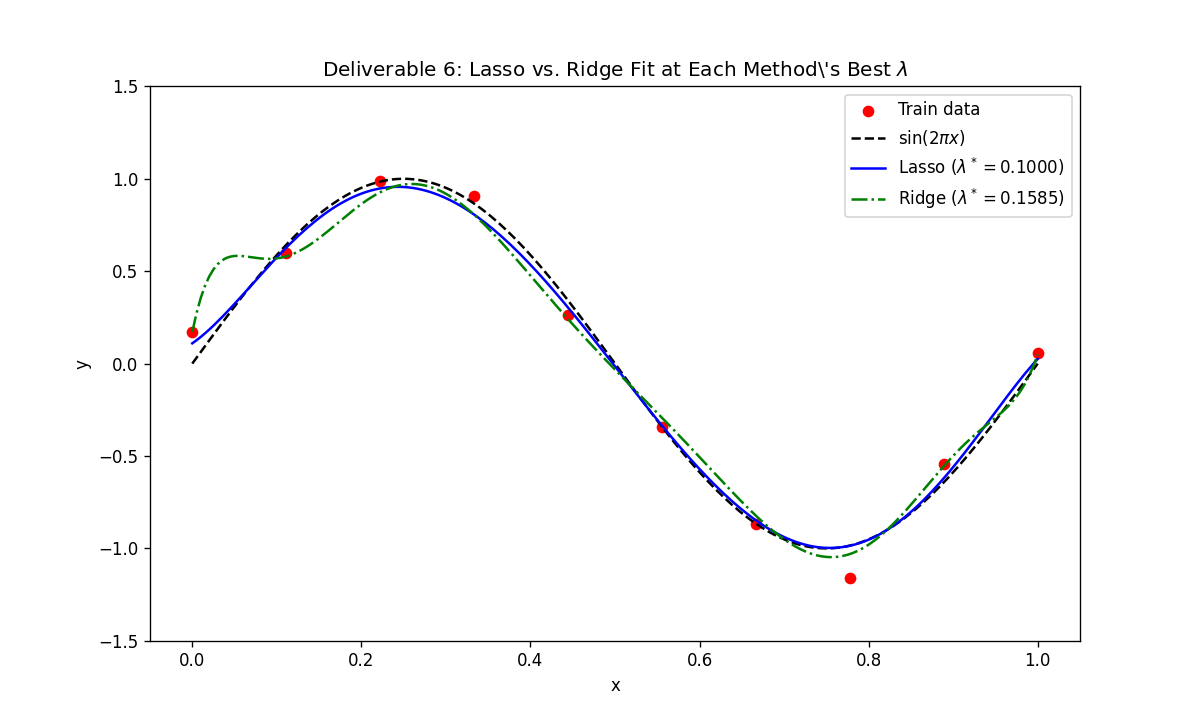
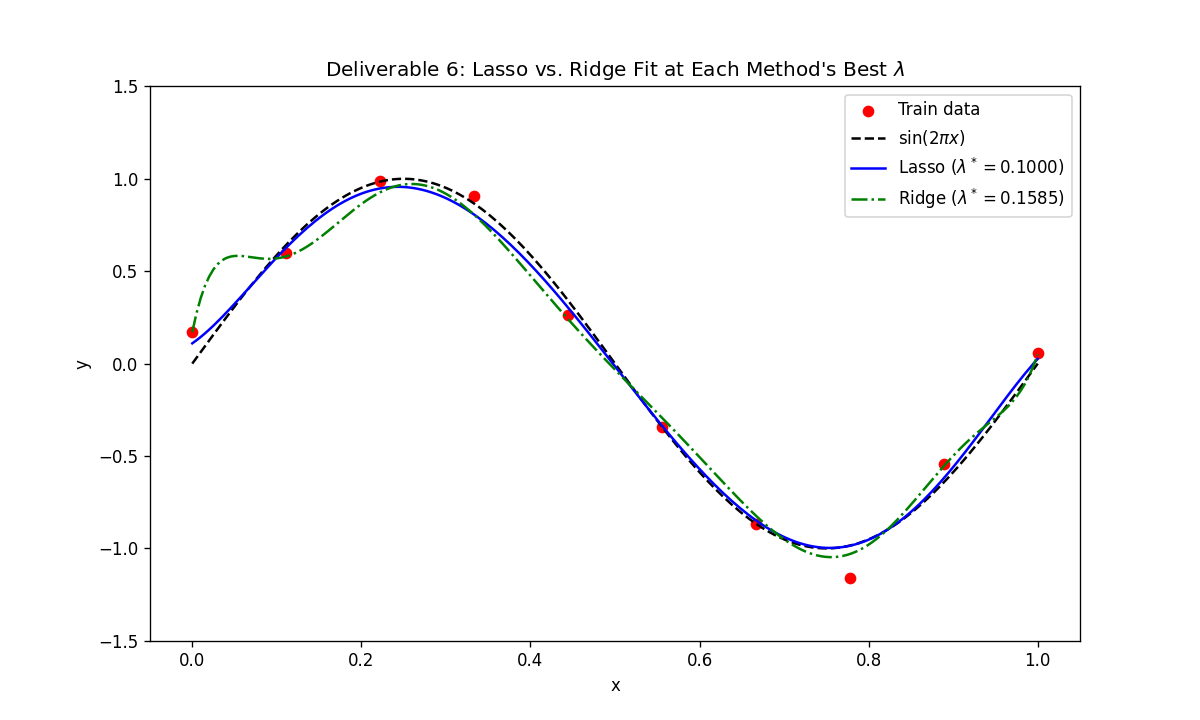
Made the README more readable and fix the explaination for the reports

Changed region(s): [[0.2775, 0.0611, 0.7708, 0.1222]]

diff --git a/p3_L1_regularised_regression.py b/p3_L1_regularised_regression.py
@@ -194,7 +194,7 @@ def run_part3():
     plt.xlabel('x')
     plt.ylabel('y')
     plt.ylim(-1.5, 1.5)
-    plt.title(r'Deliverable 6: Lasso vs. Ridge Fit at Each Method\'s Best $\lambda$')
+    plt.title(r"Deliverable 6: Lasso vs. Ridge Fit at Each Method's Best $\lambda$")
     plt.legend()
     plt.savefig(os.path.join(output_dir, 'deliverable_6_fitted_curves.png'), dpi=120)
     plt.close()
@@ -204,22 +204,18 @@ def run_part3():
     # ------------------------------------------------------------------
     report += [
         "Deliverable 7: Discussion",
-        "The coefficient path shows the L1 penalty pushing coefficients to ~0 one "
-        f"after another as lambda grows ({zc[0]} are ~0 at lambda={lams[0]:.0e}, "
-        f"{len(zero_idx)} at lambda*={lam_l:.2f}, {zc[-1]} at lambda={lams[-1]:.0f}). "
-        "This follows from the optimality condition: w_j can sit at zero whenever "
-        "|Phi_j^T r| <= lambda, i.e. the L1 ball has corners on the axes (a constant "
-        "subgradient pull toward 0 with a flat-bottomed |w| penalty), whereas the L2 "
-        "penalty's pull is proportional to w_j and vanishes near 0, so it only "
-        f"shrinks coefficients: at their best lambda Lasso has {n_small_l} coefficients "
-        f"with |w_j|<0.01 versus {n_small_r} for Ridge, with similar ||w||_2 "
-        f"({np.linalg.norm(w_l):.2f} vs {np.linalg.norm(w_r):.2f}) but a lower test "
-        f"RMSE ({te[i_l]:.4f} vs {te_r[i_r]:.4f}). (With a constant step the "
-        "subgradient method only reaches ~0, within ~eta*lambda, never exactly 0.) "
-        f"Past lambda*, the model is over-penalised: train RMSE rises from "
-        f"{tr[i_l]:.3f} to {tr[-1]:.3f} and test RMSE from {te[i_l]:.3f} to "
-        f"{te[-1]:.3f} at lambda={lams[-1]:.0f}, and the two curves converge because "
-        "the fit is underfitting both sets."]
+        f"In the coefficient path, the L1 penalty drives coefficients to ~0 one by one "
+        f"as lambda grows ({zc[0]} are ~0 at lambda={lams[0]:.0e}, {len(zero_idx)} at "
+        f"lambda*={lam_l:.2f}, {zc[-1]} at lambda={lams[-1]:.0f}). The |w| penalty has a "
+        "kink at 0, so its pull on w_j keeps magnitude lambda however small w_j gets, and "
+        "w_j stays at 0 whenever |Phi_j^T r| <= lambda (the L1 ball has corners on the "
+        "axes). The L2 pull, lambda*w_j, vanishes as w_j -> 0, so ridge only shrinks. "
+        f"At their best lambda, Lasso has {n_small_l} coefficients with |w_j|<0.01 versus "
+        f"{n_small_r} for Ridge, at similar ||w||_2 ({np.linalg.norm(w_l):.2f} vs "
+        f"{np.linalg.norm(w_r):.2f}) and lower test RMSE ({te[i_l]:.4f} vs {te_r[i_r]:.4f}). "
+        f"Past lambda*, train RMSE rises from {tr[i_l]:.3f} to {tr[-1]:.3f} and test RMSE "
+        f"from {te[i_l]:.3f} to {te[-1]:.3f}; the two converge because the model is "
+        "underfitting both sets."]
 
     write_report(os.path.join(output_dir, 'part3_report.txt'), report)
 

diff --git a/p1_polynomial_regression.py b/p1_polynomial_regression.py
@@ -182,18 +182,19 @@ def run_part1():
     # ------------------------------------------------------------------
     report.append("Deliverable 6: Discussion")
     report.append(
-        "In the loss-curve plot (eta=0.1), the SGD curve lies on top of the Batch GD "
-        "curve because Q is a square 10x10 orthogonal matrix, so its rows are "
-        "orthonormal: a single-row SGD update only changes the coordinate of alpha "
-        "along that row and does not interact with the other rows, so after one "
-        "epoch every coordinate has been multiplied by (1 - eta), exactly as in one "
-        "Batch GD step (the shuffle order is irrelevant). Mini-batch GD converges "
-        "more slowly because it averages the gradient: in each batch of 3 the "
-        "effective step on those coordinates is eta/3, giving a per-epoch factor of "
-        "about (1 - eta/3) instead of (1 - eta), and only the single leftover "
-        "sample in the batch of size 1 receives the full step, which is why its "
-        "line has a much shallower slope and flattens later (about epoch 850 versus "
-        "about 330).")
+        "In the loss-curve plot (eta=0.1), the SGD curve lies on top of Batch GD because "
+        "Q is a square orthogonal matrix: its rows are orthonormal, so each single-row "
+        "update changes only the component of alpha along that row and does not disturb "
+        "the others. After one epoch every component has been multiplied by (1 - eta), "
+        "exactly as in one Batch GD step, regardless of shuffle order. Mini-batch GD is "
+        "slower because averaging divides the step by the batch size: the 9 samples in "
+        "batches of 3 move with an effective step eta/3, so their components shrink by "
+        "(1 - eta/3) per epoch. Only the singleton batch gets the full step, and the "
+        "singleton is a random sample (1 in 10 per epoch), so the average log-rate is "
+        "0.9*ln(1-eta/3) + 0.1*ln(1-eta) = -0.041 versus ln(0.9) = -0.105 for Batch GD "
+        "(about 0.96 vs 0.90 per epoch). This ~2.6x slower rate matches the plot, where "
+        "Mini-batch flattens at about epoch 850 versus about 330. SGD and Mini-batch "
+        "share the same per-epoch shuffle.")
 
     write_report(os.path.join(output_dir, 'part1_report.txt'), report)
 

diff --git a/p2_ridge_regression.py b/p2_ridge_regression.py
@@ -131,15 +131,19 @@ def run_part2():
         report.append("  All grid lambdas satisfying it: " +
                       ", ".join(f"{v:.2e}" for v in all_ok))
     i_hi = int(np.argmin(np.abs(lams - 1e-2)))
+    flat_lo, flat_hi = all_ok.min(), all_ok.max()
+    flat_dec = np.log10(flat_hi / flat_lo)
     report += [
-        f"  Test RMSE at lambda=1e-10: {test_rmse[0]:.4f}; at lambda=1e-2: "
-        f"{test_rmse[i_hi]:.4f} (train {train_rmse[i_hi]:.4f})",
-        "  Discussion: The minimum is flat rather than sharp, since test RMSE stays "
-        f"within 5% of its minimum across about {decades:.1f} decades of lambda "
-        f"([{contiguous[0]:.1e}, {contiguous[1]:.1e}]). Below the interval the fit "
-        f"overfits (wiggly, large weights, test RMSE rising to {test_rmse[0]:.3f} "
-        "while train RMSE is near 0), and above it the fit is over-smoothed so "
-        "both train and test RMSE climb.",
+        f"  Test RMSE at lambda=1e-10: {test_rmse[0]:.4f} (train {train_rmse[0]:.4f}); "
+        f"at lambda=1e-2: {test_rmse[i_hi]:.4f} (train {train_rmse[i_hi]:.4f})",
+        "  Discussion: The minimum is flat, not sharp. Test RMSE stays within 5% of its "
+        f"minimum from {contiguous[0]:.1e} to {contiguous[1]:.1e} ({decades:.1f} decades), "
+        f"and the grid points satisfying the threshold span {flat_lo:.1e} to {flat_hi:.1e} "
+        f"({flat_dec:.1f} decades), although the threshold is borderline near 1e-5 to 1e-4. "
+        f"Below the interval the fit overfits (train RMSE {train_rmse[0]:.3f} at 1e-10, "
+        f"huge weights, test RMSE rising to {test_rmse[0]:.3f}); above it, test RMSE stays "
+        f"nearly flat until about 1e-4 and then climbs steeply (train and test both reach "
+        f"~{test_rmse[i_hi]:.2f} at 1e-2) as the fit is over-smoothed.",
         ""]
 
     # ------------------------------------------------------------------

diff --git a/README.md b/README.md
@@ -1,23 +1,85 @@
-Foundations of Data Science - Assignment 1
-This repository contains the implementation for Assignment 1, focusing on foundational regression techniques implemented from scratch in Python.Project OverviewThe assignment is divided into four main parts:Part 1: Polynomial Regression. Implements closed-form solutions (via SVD) and Gradient Descent variants (Batch, Stochastic, Mini-batch) using QR decomposition to handle severely ill-conditioned matrices.Part 2: Ridge Regression (L2 Regularization). Explores Ridge regression as a Maximum A Posteriori (MAP) estimate. Solves for weights using both closed-form equations and gradient descent, and evaluates the effect of the regularization penalty ($\lambda$).Part 3: Lasso Regression (L1 Regularization). Uses Subgradient Descent to optimize the Lasso objective. Utilizes a shifted Legendre polynomial basis to improve matrix conditioning and demonstrates the sparsity-inducing properties of the L1 norm.Part 4: Bayesian Regression. Computes the full Bayesian posterior predictive distribution, confirming its equivalence to the MAP estimate, and visualizes how predictive uncertainty decreases as dataset size ($N$) increases.
-Project Structure├── A1 - Data Sets/              # Directory containing the provided CSV datasets
-                 │   ├── poly_train.csv
-                 │   ├── poly_test.csv
-                 │   |── p4_train_N5.csv
-                 |   |── p4_train_N10.csv
-                 |   |── p4_train_N20.csv
-                 |   └── p4_train_N50.csv
-                 ├── common.py                    # Shared utilities (data loading, RMSE calculation, true sine plotting)
-                 ├── p1_polynomial_regression.py                     # Polynomial Regression & Gradient Descent
-                 ├── p2_ridge_regression.py                     # Ridge Regression
-                 ├── p3_L1_regularised_regression.py                     # Lasso Regression
-                 ├── p4_bayesian_regression.py                     # Bayesian Regression
-                 ├── requirements.txt             # Python dependencies
-                 └── README.md                    # Project documentation
-Setup and InstallationCreate a virtual environment:python -m venv venv
-Activate the virtual environment:On Windows: .\venv\Scripts\activateOn Linux/macOS: source venv/bin/activateInstall the required dependencies:pip install -r requirements.txt
-(Ensure you have numpy, matplotlib, and pandas installed).ExecutionRun each part independently from the terminal. Each script will automatically generate an output directory (e.g., output part 1/) containing all required plots (.png) and numerical reports (.txt).
+# Foundations of Data Science: Assignment 1
+
+Regression techniques implemented from scratch in Python (NumPy): polynomial regression, ridge, lasso and Bayesian linear regression.
+
+## Parts
+
+| Part | Topic | Script | Output folder |
+|------|-------|--------|---------------|
+| P1 | Polynomial regression: closed form (SVD/`lstsq`) vs. Batch, Stochastic and Mini-batch GD in a QR-reparametrised basis | `p1_polynomial_regression.py` | `output part 1/` |
+| P2 | Ridge regression as a MAP estimate: closed form, GD in the original basis, lambda sweep | `p2_ridge_regression.py` | `output part 2/` |
+| P3 | Lasso via subgradient descent in a shifted Legendre basis; Lasso vs. Ridge | `p3_L1_regularised_regression.py` | `output part 3/` |
+| P4 | Bayesian linear regression: MAP/ridge equivalence and effect of N on predictive uncertainty | `p4_bayesian_regression.py` | `output part 4/` |
+
+## Project structure
+
+```
+.
+├── A1 - Data Sets/
+│   ├── poly_train.csv
+│   ├── poly_test.csv
+│   ├── p4_train_N5.csv
+│   ├── p4_train_N10.csv
+│   ├── p4_train_N20.csv
+│   └── p4_train_N50.csv
+├── common.py                         # data loading, RMSE, polynomial features, report writer
+├── p1_polynomial_regression.py
+├── p2_ridge_regression.py
+├── p3_L1_regularised_regression.py
+├── p4_bayesian_regression.py
+├── requirements.txt
+└── README.md
+```
+
+## Setup
+
+```bash
+python -m venv venv
+source venv/bin/activate        # Windows: .\venv\Scripts\activate
+pip install -r requirements.txt # numpy, pandas, matplotlib
+```
+
+## Running
+
+Run from the project root (the folder containing `A1 - Data Sets/`). Each script creates its own output folder with the plots (`.png`) and a numerical report (`.txt`).
+
+```bash
 python3 p1_polynomial_regression.py
 python3 p2_ridge_regression.py
 python3 p3_L1_regularised_regression.py
 python3 p4_bayesian_regression.py
+```
+
+P3 runs 20,000 subgradient iterations for each of 21 lambdas, so it takes a little longer than the others.
+
+## Implementation notes
+
+- **Data:** the provided CSVs are loaded as-is. sin(2πx) is used for plotting only, never for fitting.
+- **No explicit inverses:** closed-form solutions use `np.linalg.lstsq` or `np.linalg.solve`.
+- **P1:** the objective is the unnormalised SSE, E = ½‖Φw − t‖². GD runs on thin QR, Φ = QR, with α = Rw, starting from α = 0, and w is recovered with `solve(R, α)`. SGD uses single-row updates (10 per epoch) and Mini-batch uses batches of 3, 3, 3, 1 with the averaged gradient. Both reshuffle each epoch with `np.random.default_rng(42)` (seed = 42).
+- **P2:** plain batch GD in the monomial basis with η = 0.04 from w = 0. Grid: `np.logspace(-10, 2, 49)`.
+- **P3:** η = 0.05, w₀ = 0, 20,000 iterations, grid `np.logspace(-4, 0, 21)`. A coefficient counts as ≈ 0 if |wⱼ| < 2ηλ. Best-so-far E is used only for the convergence plot; every other reported value comes from the final iterate. Ridge in the Legendre basis is solved with `solve`.
+- **P4:** α = 0.05, β = 100, degree-3 basis, with the same α and β for every N.
+
+## Key results
+
+| Item | Result |
+|------|--------|
+| P1: cond(Φ), d = 9 | 1.5e7 |
+| P1: relative error vs. closed form (all three GD variants, 2000 epochs) | about 1.8e-11 |
+| P2: GD iterations to reach 1e-6 relative error (λ = 1e-2) | 28,227 |
+| P2: cond(ΦᵀΦ) → cond(ΦᵀΦ + λI) | 2.3e14 → 2.0e3 |
+| P2: λ*, test RMSE | 1.78e-7, 0.1146 |
+| P3: Lasso λ*, test RMSE, ≈ 0 coefficients | 0.1, 0.0985, indices [0, 6, 8, 9] |
+| P3: ‖w − w*‖₂ at λ = 0.1 | 0.0076 |
+| P3: Ridge best λ, test RMSE | 0.1585, 0.1422 |
+| P4: ‖w_MAP − m_N‖₂ | 1.1e-12 |
+
+Full numbers and discussions are in each `output part N/partN_report.txt`.
+
+## Outputs
+
+- **P1:** closed-form fits (d = 1..9), GD loss curves, learning-rate study.
+- **P2:** GD convergence, train/test RMSE vs. λ, fitted curves (overfit, λ*, underfit).
+- **P3:** convergence at λ = 0.1, RMSE sweep, coefficient path, Lasso vs. Ridge fit.
+- **P4:** predictive distribution with the MAP overlay, and the interval width vs. N with the noise floor.
